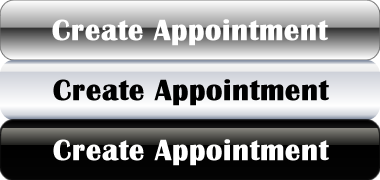
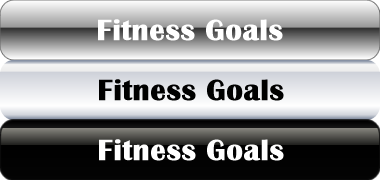
Adding my buttons and some CSS

Changed region(s): [[0.1158, 0.75, 0.8684, 0.9444], [0.1158, 0.4167, 0.8684, 0.6111], [0.1158, 0.1111, 0.8684, 0.25]]

diff --git a/MIU/burns_thomas_project/css/css.css b/MIU/burns_thomas_project/css/css.css
@@ -150,6 +150,8 @@ fieldset {
 
 #sInput {
 	font-family: "Trebuchet MS", Arial, Helvetica, sans-serif;
+	height: 20px;
+	width: 300px;
 }
 
 #sLabel {
@@ -167,11 +169,95 @@ fieldset {
 	list-style-type: none;
 }
 
-#fitButton span {
+#fitButton1 span {
 	display: none;
 }/* This bit of code hides the text from all links wraped in the <span> </span> tags in the XHTML part of the code */
 
-ul #fitButton a {
+#fitButton2 span {
+	display: none;
+}/* This bit of code hides the text from all links wraped in the <span> </span> tags in the XHTML part of the code */
+
+
+#fitButton3 span {
+	display: none;
+}/* This bit of code hides the text from all links wraped in the <span> </span> tags in the XHTML part of the code */
+
+
+#fitButton4 span {
+	display: none;
+}/* This bit of code hides the text from all links wraped in the <span> </span> tags in the XHTML part of the code */
+
+
+ul #fitButton1 a {
+	text-decoration: none;
+	font-family: "Trebuchet MS", Arial, Helvetica, sans-serif;
+	font-weight: bold;
+	display: block;
+	height: 60px;
+	width: 380px;
+	text-align: center;
+	text-decoration: none;
+	background-image: url(../img/deal_btn_bg.png);
+	background-repeat: no-repeat;
+	background-position: 0px 0px;
+	-moz-box-shadow: 5px 5px 7px #888;
+	-moz-border-radius-bottomright: 15px;
+	-webkit-box-shadow: 5px 5px 7px #888;
+	-webkit-border-bottom-right-radius: 15px;
+	-webkit-border-bottom-left-radius: 15px;
+	-webkit-border-top-left-radius: 15px;
+	-webkit-border-top-right-radius: 15px;
+	margin-left: 100px;
+	margin-bottom: 5px;
+}
+
+ul #fitButton2 a {
+	text-decoration: none;
+	font-family: "Trebuchet MS", Arial, Helvetica, sans-serif;
+	font-weight: bold;
+	display: block;
+	height: 60px;
+	width: 380px;
+	text-align: center;
+	text-decoration: none;
+	background-image: url(../img/pack_btn_bg.png);
+	background-repeat: no-repeat;
+	background-position: 0px 0px;
+	-moz-box-shadow: 5px 5px 7px #888;
+	-moz-border-radius-bottomright: 15px;
+	-webkit-box-shadow: 5px 5px 7px #888;
+	-webkit-border-bottom-right-radius: 15px;
+	-webkit-border-bottom-left-radius: 15px;
+	-webkit-border-top-left-radius: 15px;
+	-webkit-border-top-right-radius: 15px;
+	margin-left: 100px;
+	margin-bottom: 5px;
+}
+
+ul #fitButton3 a {
+	text-decoration: none;
+	font-family: "Trebuchet MS", Arial, Helvetica, sans-serif;
+	font-weight: bold;
+	display: block;
+	height: 60px;
+	width: 380px;
+	text-align: center;
+	text-decoration: none;
+	background-image: url(../img/goal_btn_bg.png);
+	background-repeat: no-repeat;
+	background-position: 0px 0px;
+	-moz-box-shadow: 5px 5px 7px #888;
+	-moz-border-radius-bottomright: 15px;
+	-webkit-box-shadow: 5px 5px 7px #888;
+	-webkit-border-bottom-right-radius: 15px;
+	-webkit-border-bottom-left-radius: 15px;
+	-webkit-border-top-left-radius: 15px;
+	-webkit-border-top-right-radius: 15px;
+	margin-left: 100px;
+	margin-bottom: 5px;
+}
+
+ul #fitButton4 a {
 	text-decoration: none;
 	font-family: "Trebuchet MS", Arial, Helvetica, sans-serif;
 	font-weight: bold;
@@ -194,12 +280,43 @@ ul #fitButton a {
 	margin-bottom: 5px;
 }
 
-#fitButton a:hover {
-	background-image: url(../img/nav_btn_bg.png);
+#fitButton1 a:hover {
+	background-image: url(../img/deal_btn_bg.png);
 	background-position: 0px -60px;
 }
 
-#fitButton a:active {
-	background-image: url(../img/nav_btn_bg.png);
+#fitButton2 a:hover {
+	background-image: url(../img/pack_btn_bg.png);
+	background-position: 0px -60px;
+}
+
+#fitButton3 a:hover {
+	background-image: url(../img/goal_btn_bg.png);
+	background-position: 0px -60px;
+}
+
+
+#fitButton4 a:hover {
+	background-image: url(../img/appnt_btn_bg.png);
+	background-position: 0px -60px;
+}
+
+#fitButton1 a:active {
+	background-image: url(../img/deal_btn_bg.png);
+	background-position: 0px -120px;
+}
+
+#fitButton2 a:active {
+	background-image: url(../img/pack_btn_bg.png);
+	background-position: 0px -120px;
+}
+
+#fitButton3 a:active {
+	background-image: url(../img/goal_btn_bg.png);
+	background-position: 0px -120px;
+}
+
+#fitButton4 a:active {
+	background-image: url(../img/appnt_btn_bg.png);
 	background-position: 0px -120px;
 }

diff --git a/MIU/burns_thomas_project/index.html b/MIU/burns_thomas_project/index.html
@@ -27,11 +27,15 @@ Thomas Burns
         
         <div id="searchDiv">
         <label id="sLabel" for="search" >Search</label>
-        <input type="search" id="sInput" width="300" height="20">
+        <input type="search" id="sInput">
         </div><!--end of search feature-->
         <div id="formTrigger">
         	<ul>
-            	<li id="fitButton"><a  href="../burns_Thomas_project/burns_thomas_project.html"><span>Create Appointment</span></a></li>
+            	<li id="fitButton1"><a  href="#"><span>Create Appointment</span></a></li>
+                <li id="fitButton2"><a  href="#"><span>Create Appointment</span></a></li>
+				<li id="fitButton3"><a  href="#"><span>Create Appointment</span></a></li>
+                <li id="fitButton4"><a  href="../burns_Thomas_project/burns_thomas_project.html"><span>Create Appointment</span></a></li>
+
             </ul>
         </div><!--End of form trigger-->
   
